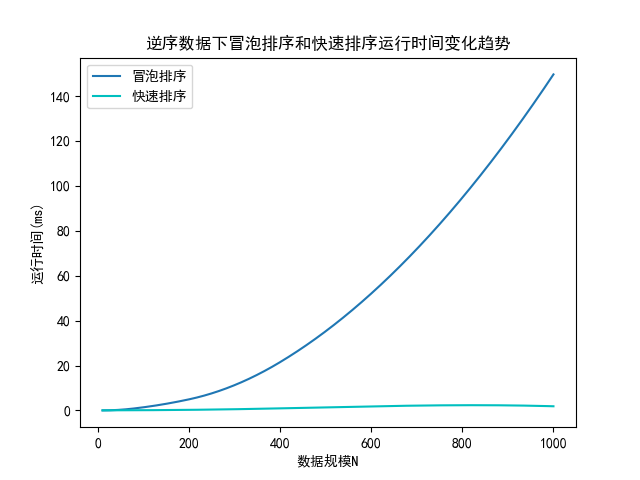
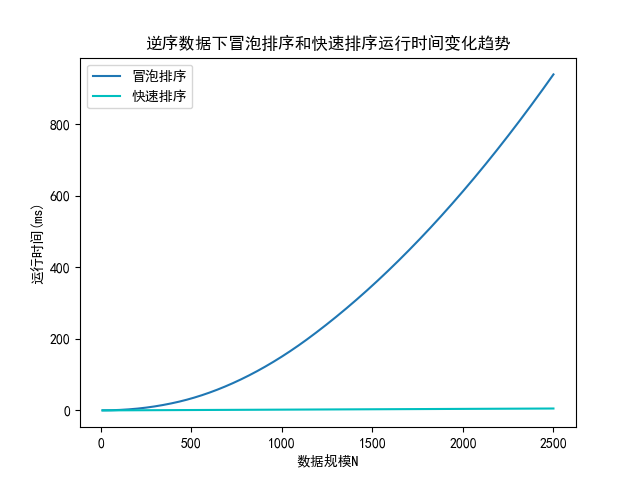
update lab5

diff --git a/Lab/Lab5/main.py b/Lab/Lab5/main.py
@@ -19,6 +19,10 @@ def generate_data(n, method="order"):
     return data
 
 
+def average(x):
+    return sum(x) / len(x)
+
+
 def analize(N, data, method):
     map = {'order': u"顺序", 'anti': u"逆序", 'rand': u"随机"}
 
@@ -33,10 +37,10 @@ def analize(N, data, method):
     y2 = np.array(data['quick_sort'])
 
     x_new = np.linspace(x.min(), x.max(), 10000)
-    f = interpolate.interp1d(x, y1, 2)
+    f = interpolate.UnivariateSpline(x, y1, k=2, s=1)
     plt.plot(x_new, f(x_new), label=u"冒泡排序")
 
-    f = interpolate.UnivariateSpline(x, y2, s=0.005)
+    f = interpolate.UnivariateSpline(x, y2, k=2, s=1)
     plt.plot(x_new, f(x_new), c='c', label=u"快速排序")
 
     plt.legend()
@@ -44,7 +48,7 @@ def analize(N, data, method):
 
 
 if __name__ == "__main__":
-    N = [10, 50, 100, 300, 500, 1000]
+    N = [10, 50, 100, 300, 500, 800, 1500, 2500]
     if os.path.exists("time_use.data"):
         time_use = pickle.load(open("time_use.data", "rb"))
     else:
@@ -52,17 +56,21 @@ if __name__ == "__main__":
                     'quick_sort': {'order': [], 'anti': [], 'rand': []}}
         for n in N:
             for method in ['order', 'anti', 'rand']:
-                data = generate_data(n, method)
-                data_cp = data
-                start_time = time.clock()
-                buddle_sort(data)
-                end_time = time.clock()
+                time_tmp = {'quick_sort': [], 'buddle_sort': []}
+                for i in range(10):
+                    data = generate_data(n, method)
+                    data_cp = data
+                    start_time = time.clock()
+                    buddle_sort(data)
+                    end_time = time.clock()
+                    time_tmp['buddle_sort'].append((end_time - start_time) * 1e3)
+                    start_time = time.clock()
+                    quick_sort(data_cp, 0, len(data_cp) - 1)
+                    end_time = time.clock()
+                    time_tmp['quick_sort'].append((end_time - start_time) * 1e3)
 
-                time_use['buddle_sort'][method].append((end_time - start_time) * 1e3)
-                start_time = time.clock()
-                quick_sort(data_cp, 0, len(data_cp) - 1)
-                end_time = time.clock()
-                time_use['quick_sort'][method].append((end_time - start_time) * 1e3)
+                time_use['buddle_sort'][method].append(average(time_tmp['buddle_sort']))
+                time_use['quick_sort'][method].append(average(time_tmp['quick_sort']))
         pickle.dump(time_use, open("time_use.data", "wb"))
 
     for method in ['order', 'anti', 'rand']:
